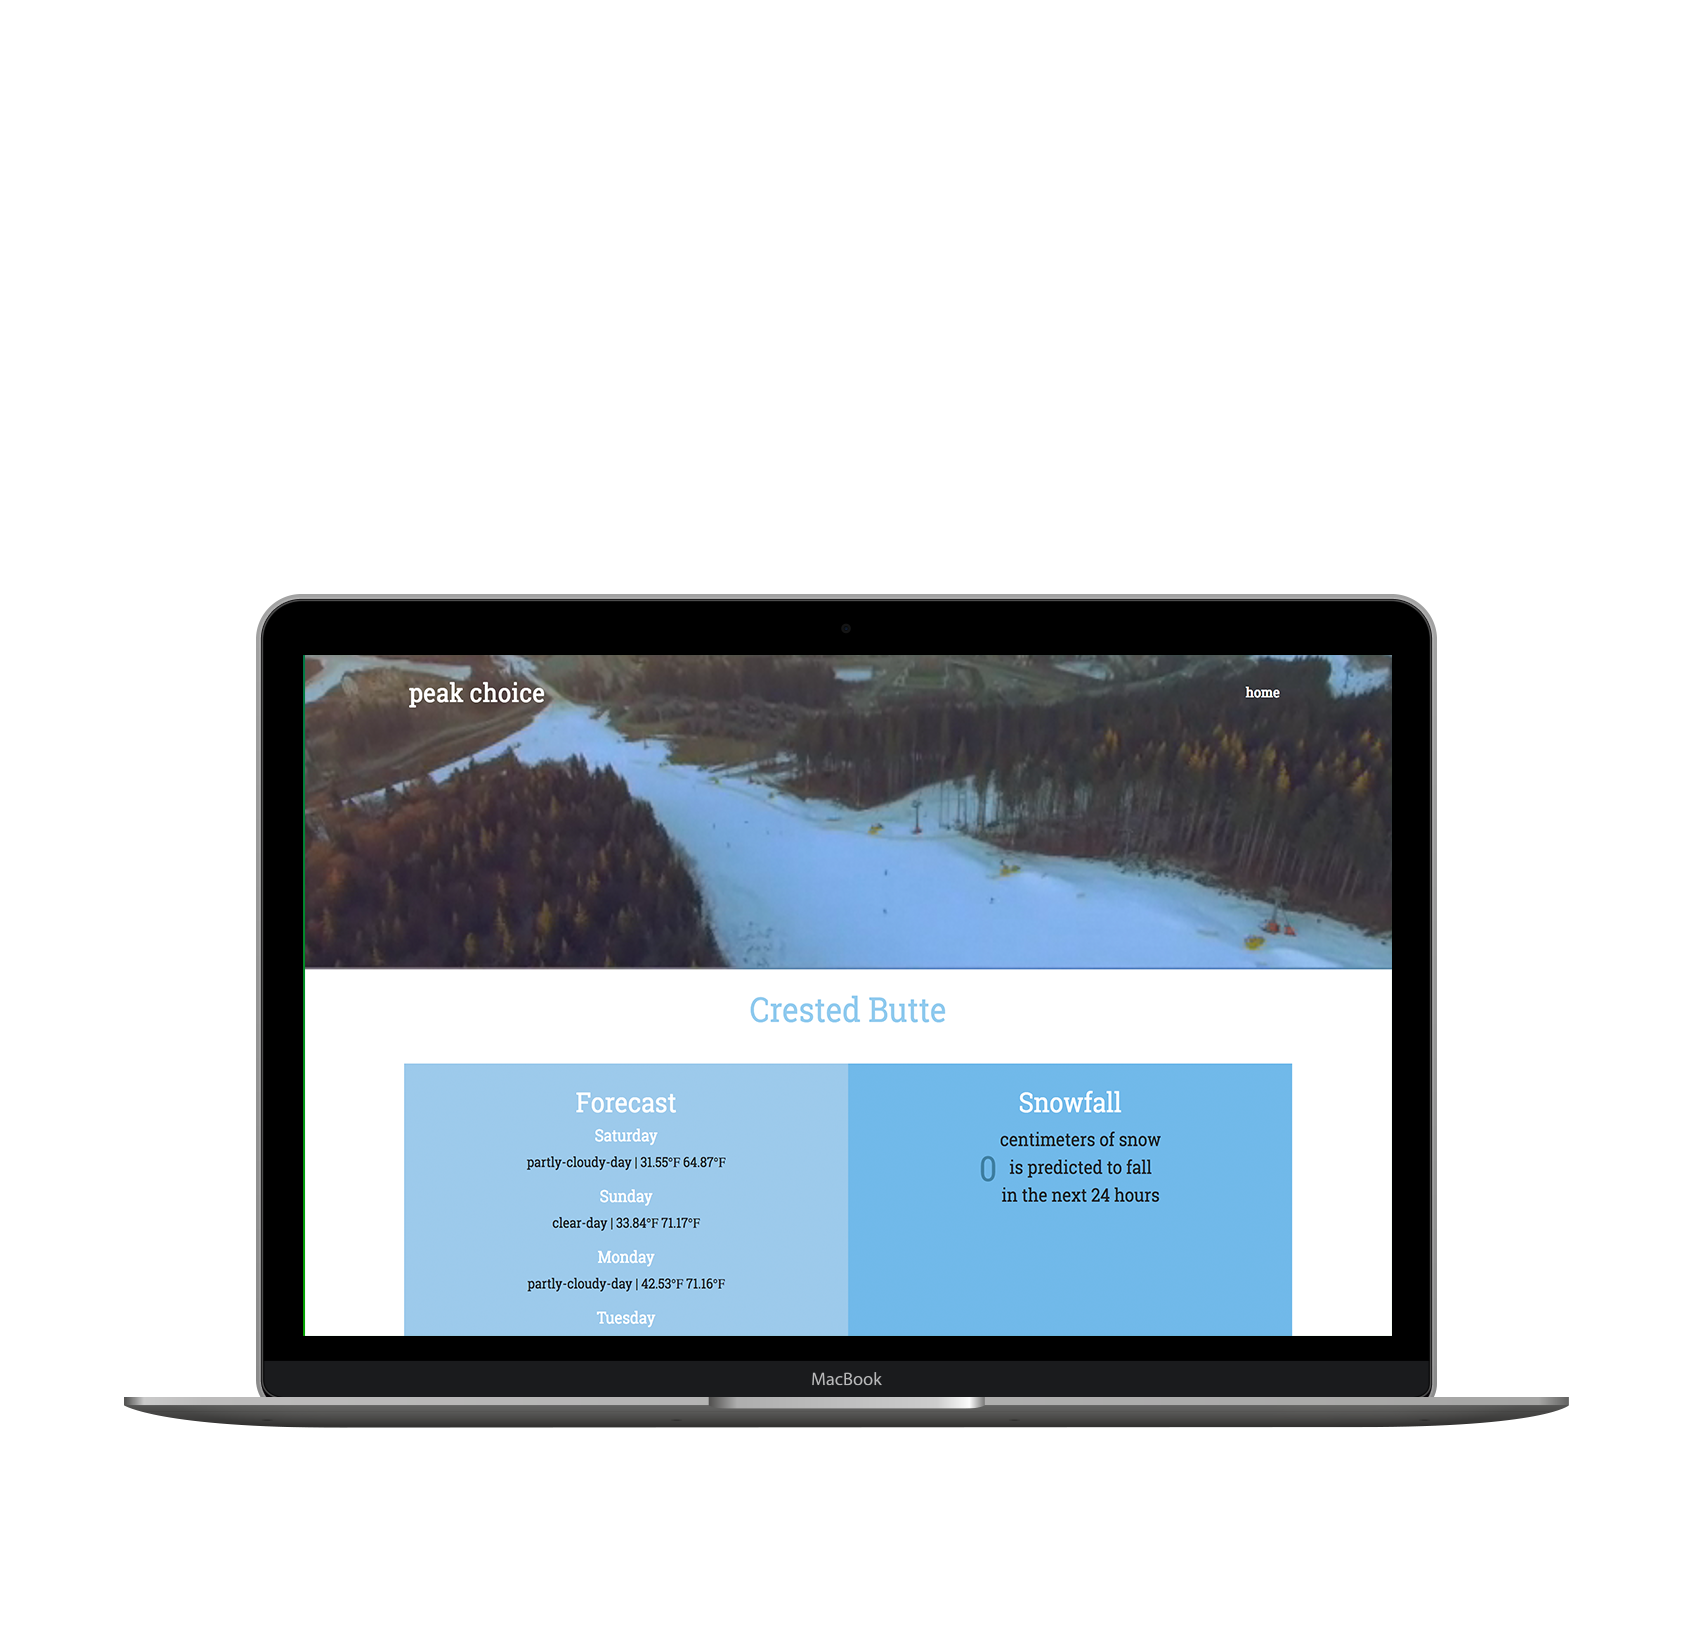
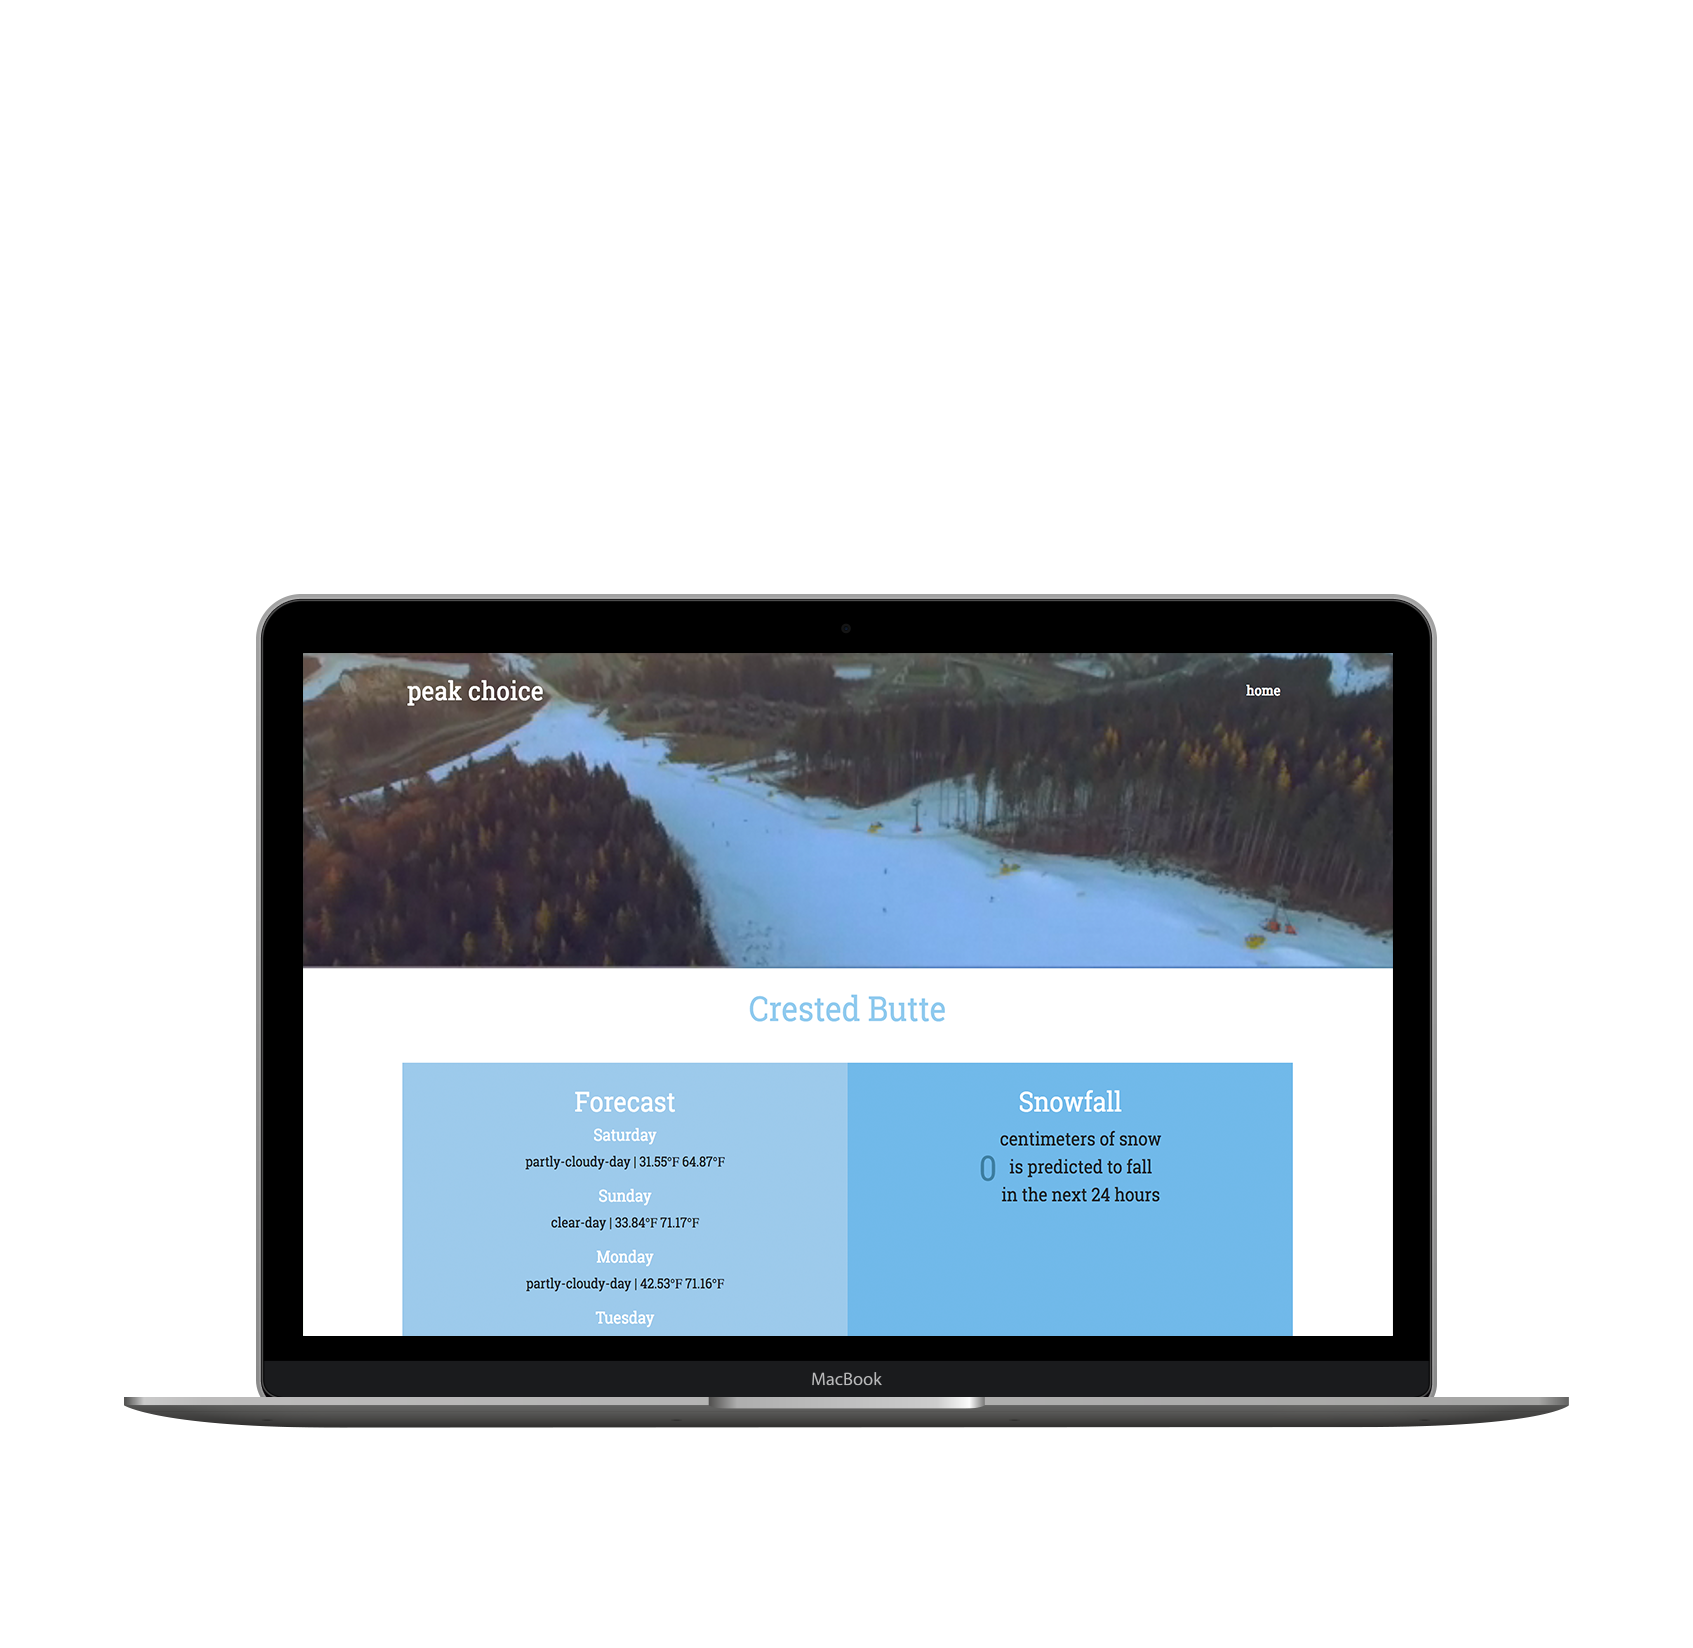
added resume and fix

diff --git a/public/html/index.html b/public/html/index.html
@@ -37,7 +37,7 @@
 				<h3>Built With</h3>
 			</div>
 			<div class="projectImageSection">
-					<img class='peakChoiceImage' src="/img/com-peakchoicemockup.png">
+					<img class='peakChoiceImage' src="/img/newpeakchoice.png">
 			</div>
 		</div>
 		<div class="iconSection">
